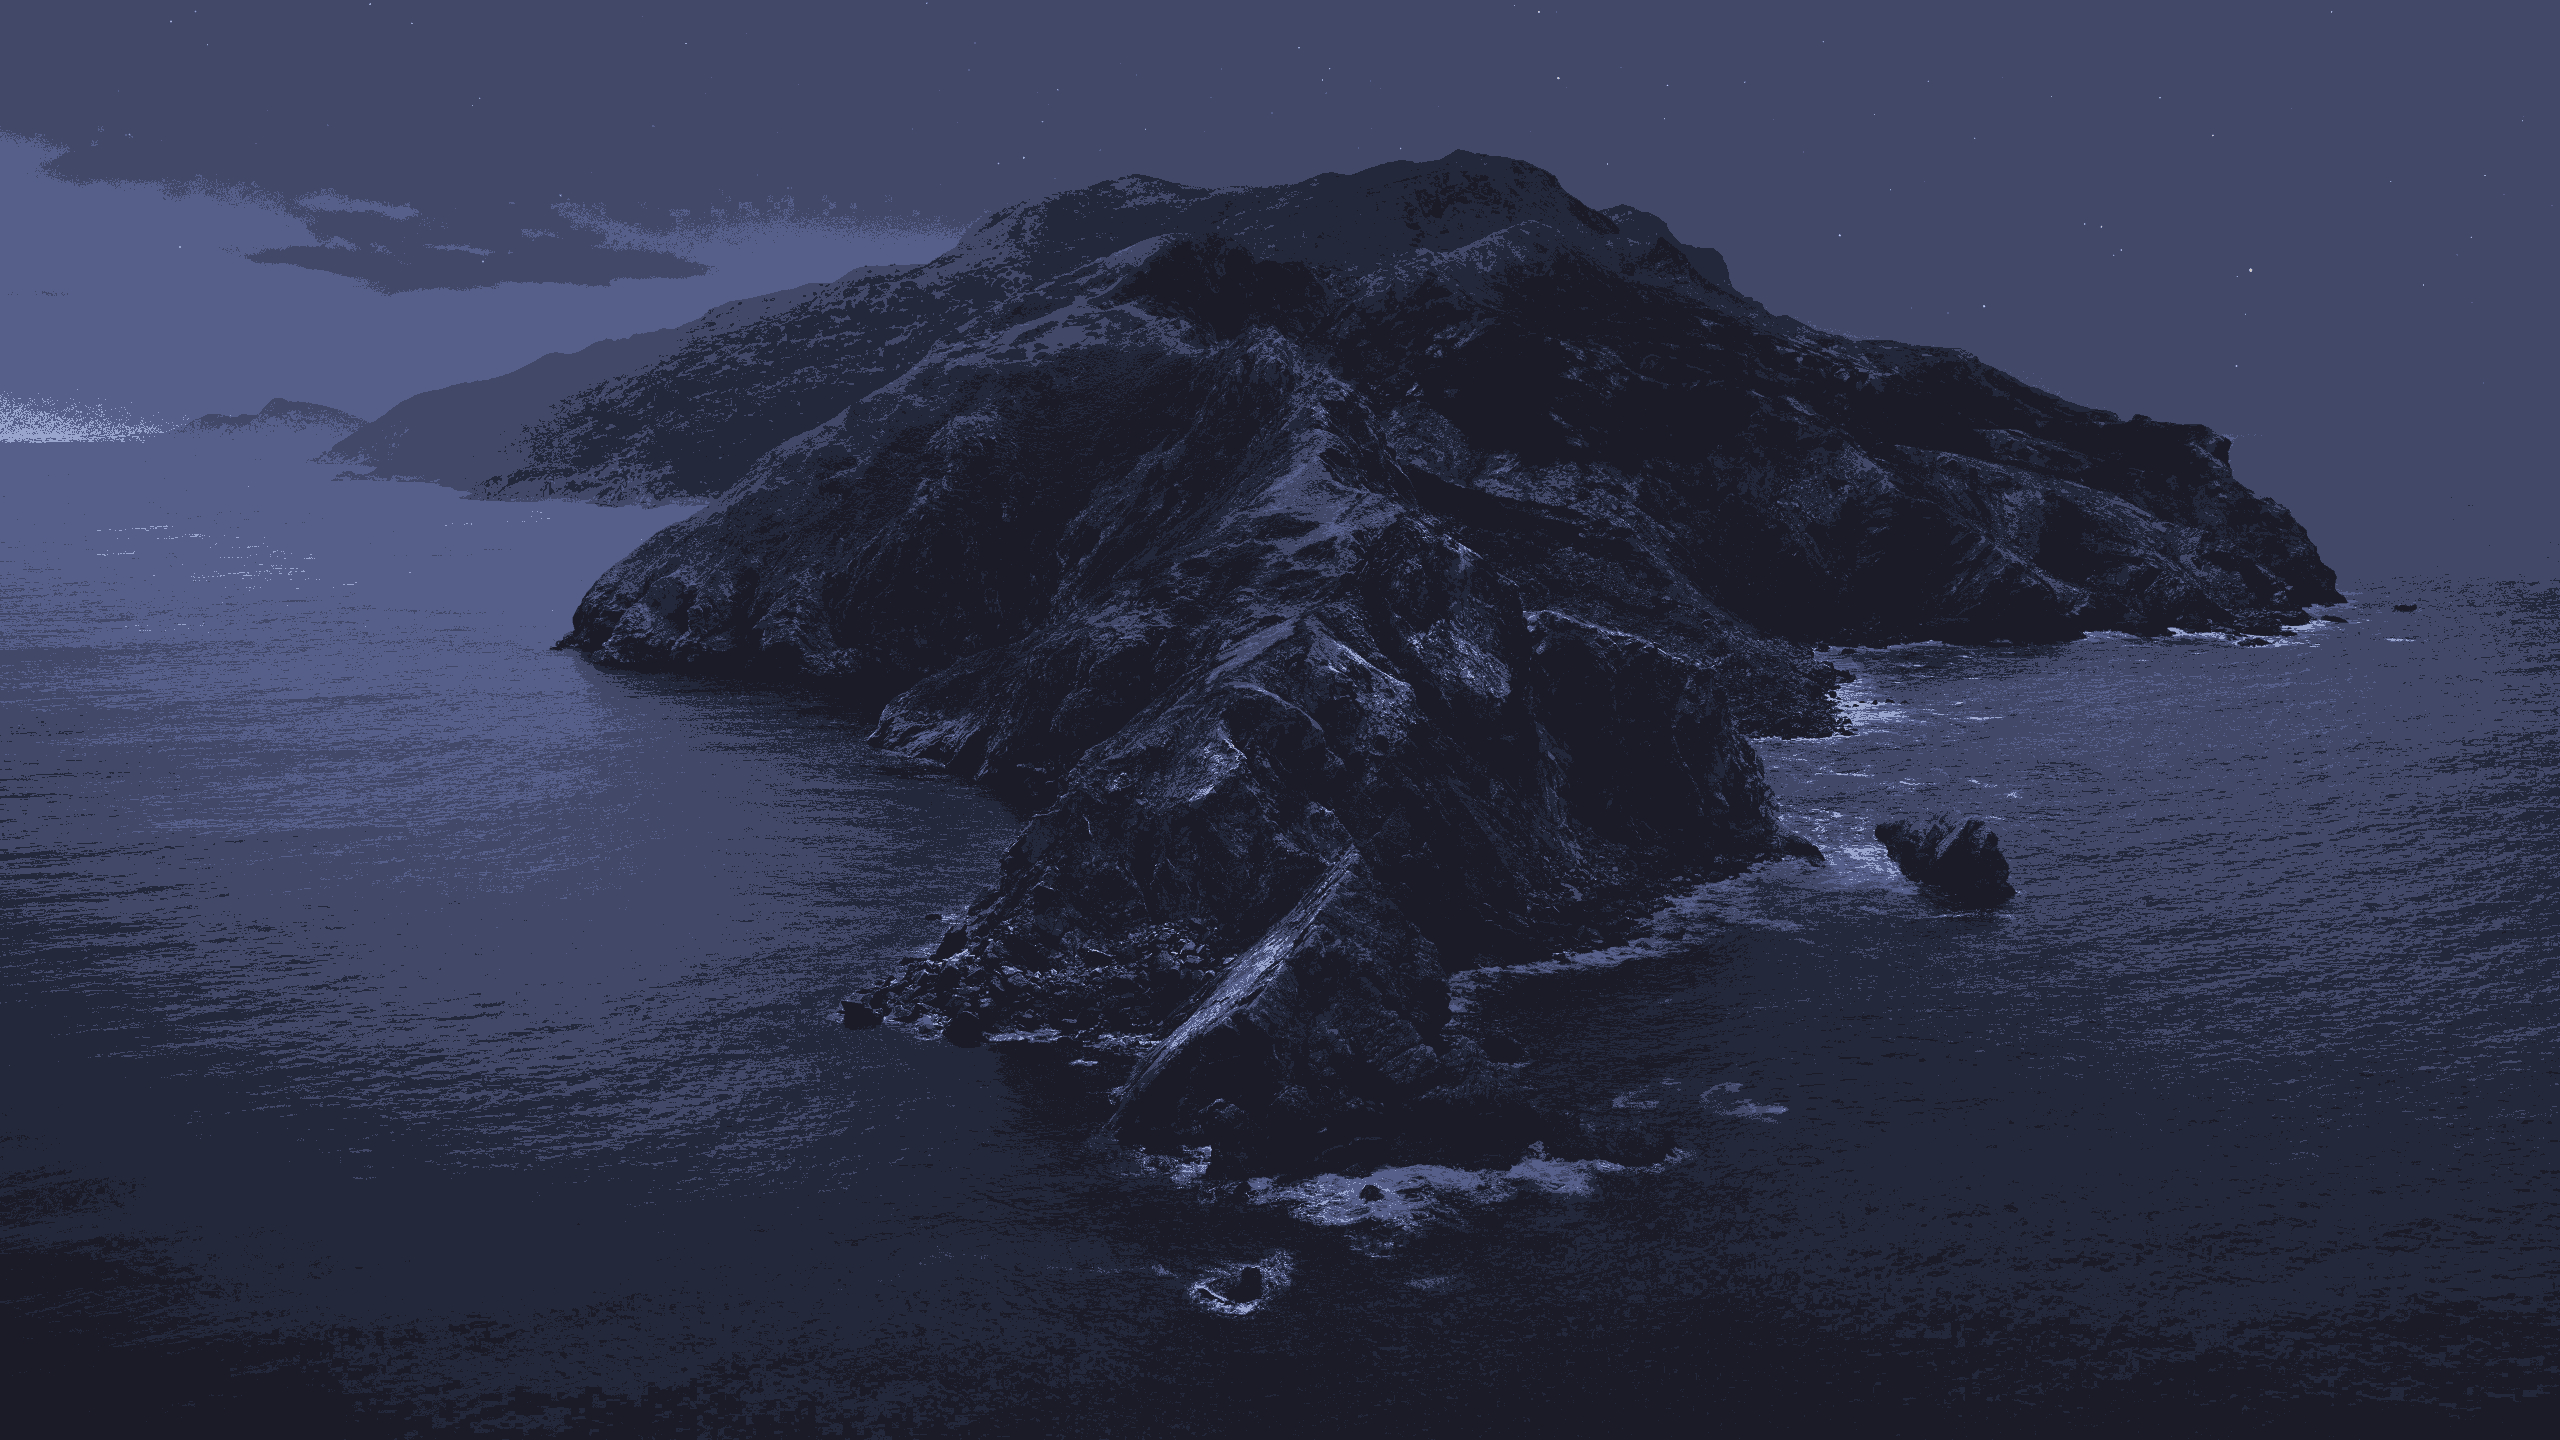
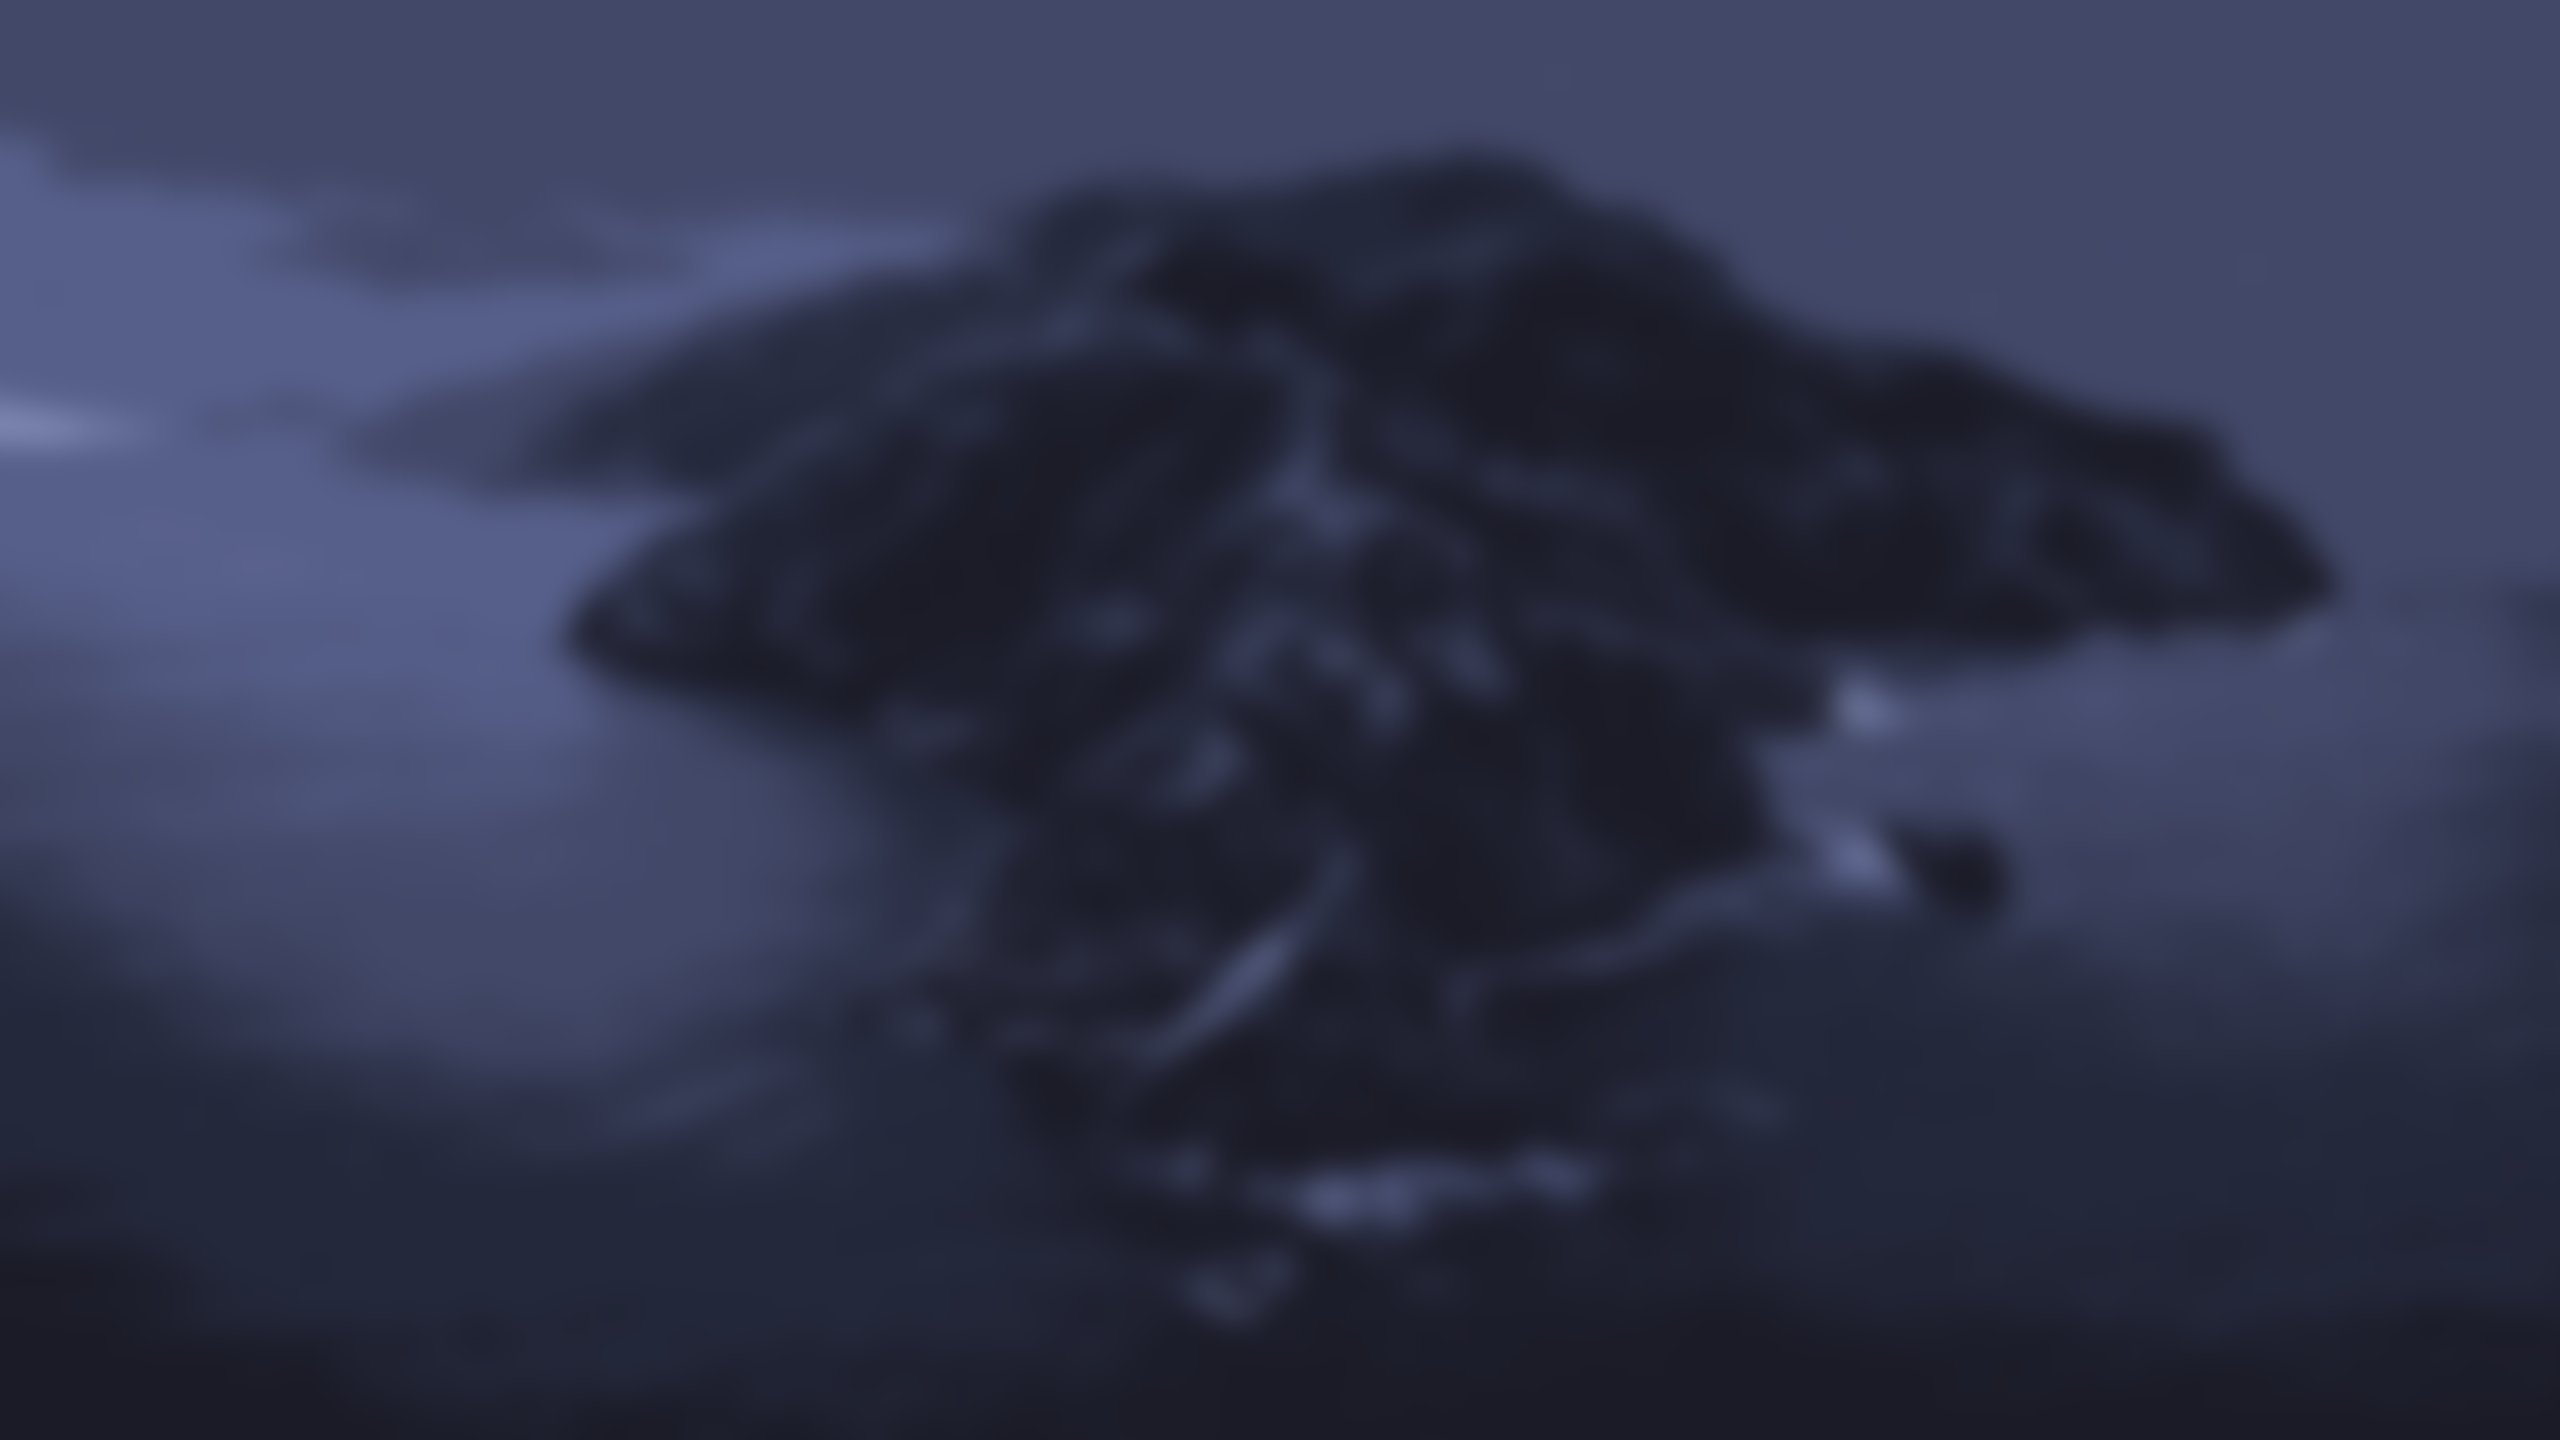
Added css animations, blur bg, and fixed links.

diff --git a/style.css b/style.css
@@ -1,45 +1,10 @@
 body{
   background-color: rgb(22, 22, 22);
+  background-image: url(/img/catalina_wallpaper.jpg);
+  background-position: center;
+  background-repeat: no-repeat;
+  background-size:auto auto;
 }
-/* .grid-container-element{
-  display: grid;
-  grid-template-columns: 1fr 1fr ;
-  background-color: antiquewhite;
-  border-radius: 8px;
-
-   
-  
-} */
-/* .box-container{
-  padding: 20px;
-  margin: 40px;
-  background-color: rgb(26, 26, 26);
-  height:250px ;
-  width:250px ;
-  box-shadow: -10px -10px 30px;
-  transition: all .2s ease-in-out;
-  
-
-  
-} */
-/* .box-container:hover{
-  transform: scale(1.1);
-}
-.box-container1{
-  padding: 20px;
-  margin-left: 1100px;
-  margin-right: 40px;
-  margin-bottom: 1000px;
-  background-color: rgb(26, 26, 26);
-  height:250px ;
-  width:250px ;
-  box-shadow: -10px -10px 30px;
-  transition: 0.3s;
-  transition: all .2s ease-in-out;
-} */
-/* .box-container1:hover{
-  transform: scale(1.1);
-} */
 
 .box-landscape{
   position: absolute;
@@ -53,26 +18,47 @@ body{
   transition: all .2s ease-in-out;
   display: flex;
   flex-direction: row;
+  animation-name: fadeinbox;
+  animation-duration: 2s;
+  animation-timing-function: ease-in-out;
+}
+ /* Animations to fade in main box */
+
+@keyframes fadeinbox {
+  from {
+    opacity: 0%;
+    transform: scale(0);
+  }
+  to {
+    opacity: 100%;
+    transform: scale(1);
+  }
 }
 
-
-/* .box-img0{
-  height: 250px;
-  width: 250px;
-}
-.box-img1{
-  height: 250px;
-  width: 250px;
-  background:url("images/anime.mp4") no-repeat scroll 0% 0% transparent;
-} */
 .box-img2{
   height: 300px;
   width: 300px;
+  animation: 2s ease-out slideIn;
   /* margin-left: 2%; */
 }
 
+/* Keyframes for box image animation!*/
+@keyframes slideIn {
+  0% {
+    opacity: 0%;
+    transform: translateY(-200px);
+  }
 
+  50% {
+    opacity: 0%;
+    transform: translateY(-100px);
+  }
 
+  100% {
+    opacity: 100%;
+    transform: translateY(0px);
+  }
+}
 
 .links{
   /* background-color: antiquewhite; */
@@ -80,18 +66,33 @@ body{
   width: 300px;
   padding-left: 20px;
   margin-left: 60px;
-  font-family: CaskaydiaCove Nerd Font;
+  font-family: JetBrains Mono;
   color: aliceblue;
-  font-size: 17px;
+  font-size: 16px;
   font-weight:100;
-  padding-top: 30px;
+  padding-top: 25px;
   border-color: rgb(144, 217, 244);
   border-style: solid;
   border-width: 2px;
-
+  animation-name: fadein;
+  animation-duration: 2s;
+  animation-timing-function: ease-in-out;
   
 }
 
+@keyframes fadein {
+  0% {
+    opacity: 0%;
+    transform: translateY(200px);
+  }
+  50% { opacity: 0%;
+  }
+
+  100% {
+    opacity: 100%;
+    transform: translateY(0px);
+  }
+}
 
 h4{
   margin: 3px;
@@ -100,11 +101,38 @@ h4{
 h4:hover{
   font-weight: 700;
 }
-a:hover{
-  color: rgb(144, 217, 244);
+
+/* Back Pulse */
+@-webkit-keyframes hvr-back-pulse {
+  50% {
+    color: rgb(255, 255, 255);
+    
+  }
+}
+@keyframes hvr-back-pulse {
+  50% {
+    color: rgb(144, 217, 244);
+    
+  }
+}
+
+a:hover, a:focus, a:active {
+  /* color: rgb(144, 217, 244); */
   font-style: italic;
   margin-bottom: 2px;
+  font-size: 18px;
+  -webkit-animation-name: hvr-back-pulse;
+  animation-name: hvr-back-pulse;
+  -webkit-animation-duration: 2s;
+  animation-duration: 1s;
+  -webkit-animation-timing-function: linear;
+  animation-timing-function: linear;
+  -webkit-animation-iteration-count: infinite;
+  animation-iteration-count: infinite;
+  
 }
+
+
 a{
   text-decoration: none;
   color: aliceblue;
@@ -117,4 +145,19 @@ a{
   width: 700px;
   margin:200px auto;
   box-shadow: -10px -10px 30px;
+  animation: 2s ease-in wrapperAnim;
+}
+
+@keyframes wrapperAnim  {
+  0% {
+    opacity: 0%;
+
+  }
+  30% {
+    opacity: 0%;
+  }
+  100% {
+    opacity: 100%;
+    
+  }
 }

diff --git a/index.html b/index.html
@@ -5,33 +5,18 @@
     <meta http-equiv="X-UA-Compatible" content="IE=edge">
     <meta name="viewport" content="width=device-width, initial-scale=1.0">
     <link rel="stylesheet" href="style.css">
-    <title>My Startpage</title>
+    <title>mirai</title>
 </head>
 <body>
 
-
-    <!-- <div class="grid-container-element">
-        <div class="box-container">
-            <img class="box-img0" src="images/neon.jpg" alt="No image">
-        </div>
-        <div class="box-container">
-            <img class="box-img1" src="images/img7 Cropped.jpg" alt="No image"> -->
-            <!-- <video autoplay muted loop class="box-img1" src="images/anime.mp4"></video> -->
-        <!-- </div> -->
-        <!-- <div class="box-container">
-            <img class="box-img2" src="images/img7.png" alt="No image">
-        </div> -->
-        <!-- <video src="images/anime.mp4"></video> -->
-    <!-- </div> -->
-
     <!-- Landscape Box -->
-    <div class="wrapper"> 
+    <div class="wrapper">
         <div class="box-landscape">
             <div class="box">
                 <img class="box-img2" src="images/img2.jpg" alt="No image">
             </div>
             <div class="links">
-                <h4><a href="http://localhost:8096">Jellyfin</a> </h4>
+                <h4><a href="https://open.spotify.com">Spotify</a> </h4>
                 <h4><a href="https://www.youtube.com/">YouTube</a> </h4>
                 <h4><a href="https://web.whatsapp.com/">Whatsapp</a> </h4>
                 <h4><a href="https://twitter.com">Twitter</a> </h4>
@@ -46,9 +31,10 @@
             
         </div>
     </div>
-    <!-- <div class="box-container1">
-        <img class="box-img2" src="images/img7.png" alt="No image">
-    </div> -->
+   
+
+
+
 </body>
     
 </html>
